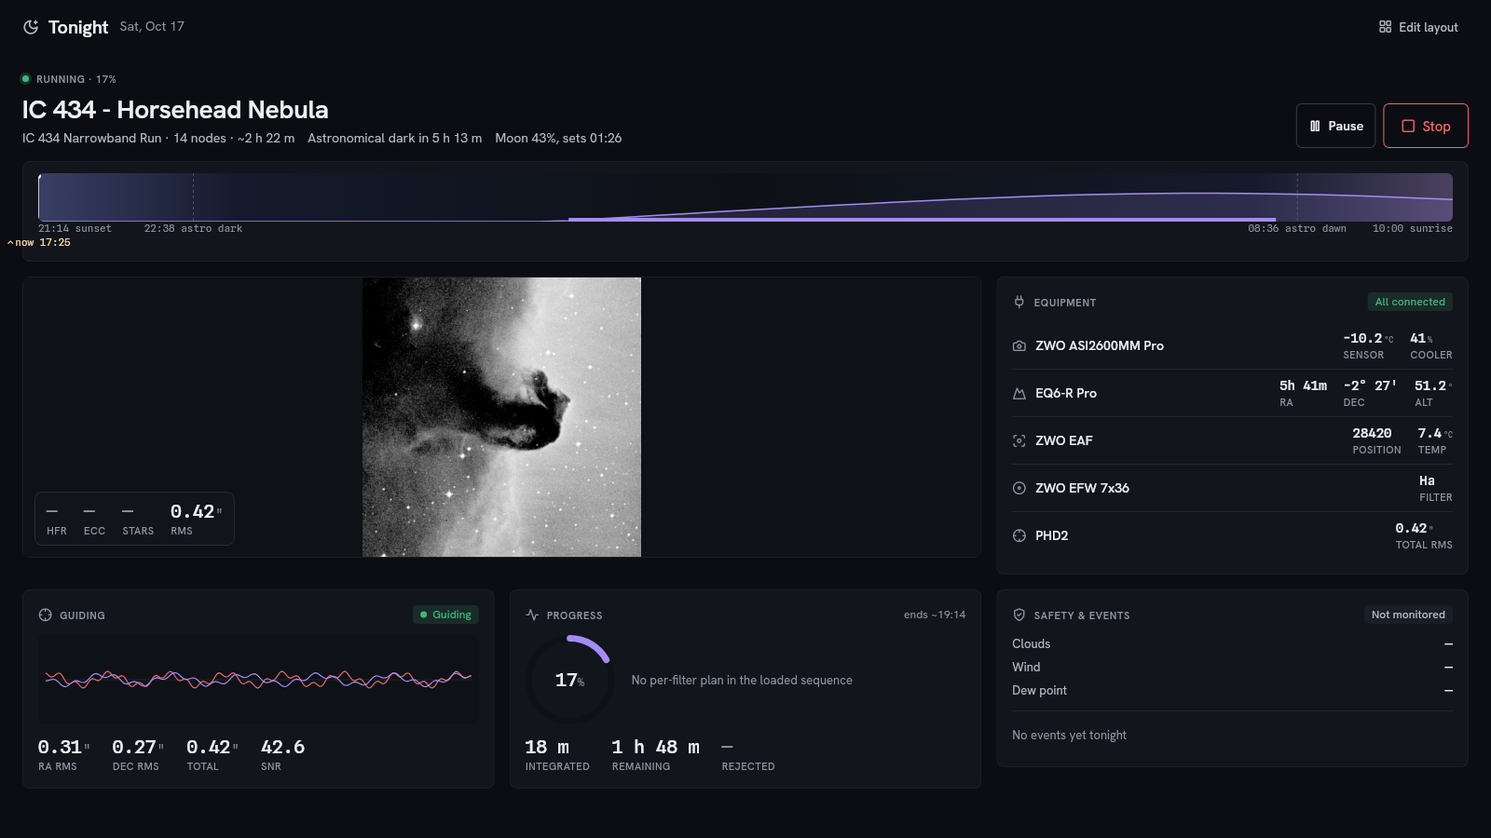
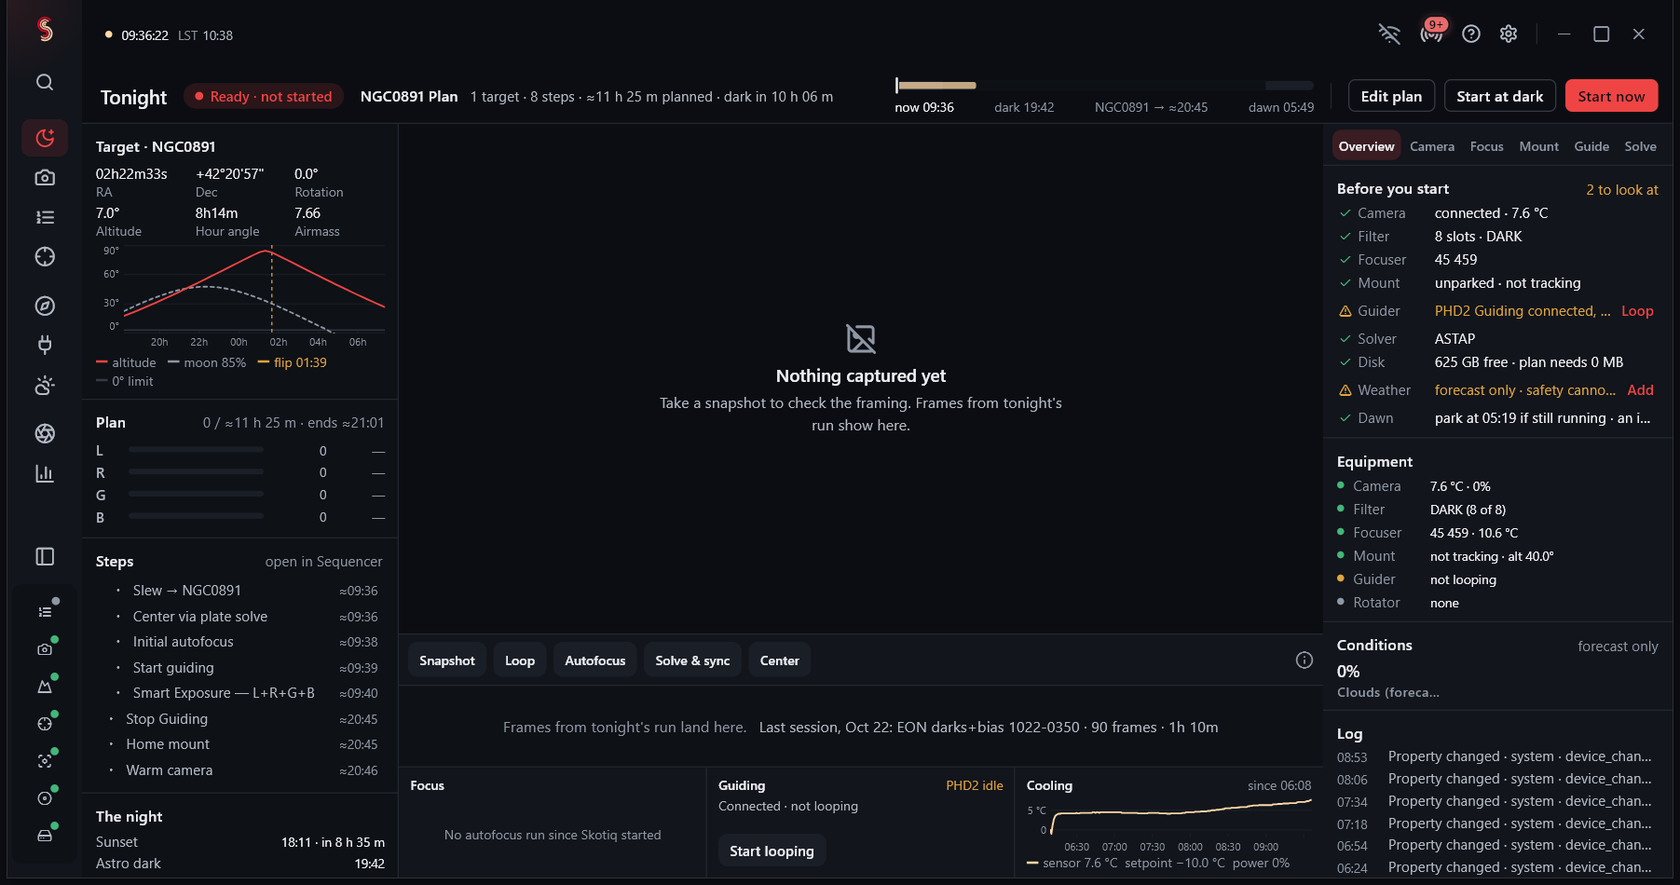
docs(readme): refresh screenshots from the live imaging rig; fix repo links
Replace the README screenshot set with captures taken 2026-10-22 from the
owner's running skotiq.exe on the imaging laptop (Tonight staged for
NGC 891, connected ZWO/Pegasus/PHD2 rig, real session history, the NGC 891
L master in the Darkroom). Alt text and captions now describe the actual
pixels. Add darkroom-draft.png and session-history.png.

Fix all github.com/Scdouglas1999/Skotiq links — that repo name returns
404; the repository is still Scdouglas1999/Nightshade, which will redirect
if the rename happens later. Downloads table now uses <version>
placeholders and notes that the published 7.1.0 assets are still named
nightshade-7.1.0-*.

Generated with [Devin](https://devin.ai)

diff --git a/README.md b/README.md
@@ -10,15 +10,15 @@
 
 **Astrophotography capture software that runs the whole night from one app.**
 
-[![Latest release](https://img.shields.io/github/v/release/Scdouglas1999/Skotiq?label=latest&color=2ea44f)](https://github.com/Scdouglas1999/Skotiq/releases/latest)
+[![Latest release](https://img.shields.io/github/v/release/Scdouglas1999/Nightshade?label=latest&color=2ea44f)](https://github.com/Scdouglas1999/Nightshade/releases/latest)
 [![Public beta](https://img.shields.io/badge/status-public_beta-f59e0b)](#whats-missing)
 [![Desktop](https://img.shields.io/badge/desktop-Windows_%7C_Linux-2563eb)](#downloads)
 [![Companion](https://img.shields.io/badge/companion-Android-7c3aed)](#running-it-from-somewhere-else)
 [![License](https://img.shields.io/badge/license-source_available-64748b)](LICENSE)
 
-[**Download**](https://github.com/Scdouglas1999/Skotiq/releases/latest) · [Documentation](docs/index.md) · [7.1.0 release notes](docs/release/v7.1.0.md) · [What's missing](docs/known-limitations.md) · [Patreon](https://www.patreon.com/cw/SeanDouglas)
+[**Download**](https://github.com/Scdouglas1999/Nightshade/releases/latest) · [Documentation](docs/index.md) · [7.1.0 release notes](docs/release/v7.1.0.md) · [What's missing](docs/known-limitations.md) · [Patreon](https://www.patreon.com/cw/SeanDouglas)
 
-<img src="assets/screenshots/planetarium.png" width="900" alt="Skotiq planetarium drawing the sky over the observing site: constellation figures and named stars, Messier and NGC objects labelled, Mars and Jupiter placed, with a compass rose and the field of view, centre coordinates and Bortle class along the bottom">
+<img src="assets/screenshots/planetarium.png" width="900" alt="Skotiq planetarium drawing the live sky over the observing site: constellation figures, named deep-sky objects and planets, with a compass rose and the field center coordinates and Bortle class along the bottom">
 
 </div>
 
@@ -50,22 +50,22 @@ or the [N.I.N.A. Fujifilm plugin](https://github.com/Scdouglas1999/NINA-Fujifilm
 
 <div align="center">
 
-<img src="assets/screenshots/desktop-dashboard.png" width="900" alt="Skotiq Tonight during a run on IC 434: the latest captured frame, the guide trace, per-filter progress against the night's goal, and live camera, mount, focuser, filter wheel and guider readouts">
+<img src="assets/screenshots/desktop-dashboard.png" width="900" alt="Skotiq Tonight on a real imaging laptop, with the NGC 891 plan staged for the night: the target's altitude curve against the Moon at 85%, each step's clock time through the meridian flip and camera warm-up, and a before-you-start checklist showing the camera cooling, mount unparked and guider connected">
 
-<sub>The target you're on, the frame that just came down, the guide trace, and every device on the rig — one screen.</sub>
+<sub>The target, the plan with its clock times, the gear's live state and the night's weather call — one screen. (Captured from a real rig the morning after a night's imaging.)</sub>
 
 </div>
 
 <table>
 <tr>
 <td width="50%" valign="top">
-<img src="assets/screenshots/plan-tonight.png" width="100%" alt="Skotiq Plan scoring 1255 catalogue targets for tonight: each with its transit time and altitude and how long it stays above 30 degrees, beside a detail pane giving NGC7788's altitude curve, object type, magnitude, suggested filter and exposure">
+<img src="assets/screenshots/plan-tonight.png" width="100%" alt="Skotiq Plan scoring 1446 catalogue targets for tonight, each with its transit time, altitude and time above the horizon, beside a detail pane giving IC 356's altitude curve, object type, magnitude, suggested filter and its distance from the Moon">
 <p><b>Work out what to shoot.</b> Everything in the catalogue, scored for tonight against
 how high it gets, when it transits, how long it stays up, where the Moon is and what your
 horizon blocks. Click one and you get its altitude curve and a suggested exposure.</p>
 </td>
 <td width="50%" valign="top">
-<img src="assets/screenshots/framing.png" width="100%" alt="Skotiq framing: the camera's field of view and rotation over DSS2 Red survey imagery, with the sensor size, field of view and image scale for the active equipment profile">
+<img src="assets/screenshots/framing.png" width="100%" alt="Skotiq framing for NGC 891: the camera's 1.00 by 0.75 degree field of view drawn over real DSS2 Red survey imagery of the galaxy, with the sensor size and image scale from the active equipment profile">
 <p><b>Frame it before you waste the clear sky.</b> Your actual sensor and focal length over
 real survey imagery, so you can see whether it fits and which way to rotate. Mosaic panels
 get laid out here too.</p>
@@ -73,12 +73,12 @@ get laid out here too.</p>
 </tr>
 <tr>
 <td valign="top">
-<img src="assets/screenshots/equipment.png" width="100%" alt="Skotiq equipment profiles: the active rig's optical train and device assignments, with focal length, aperture and focal ratio">
+<img src="assets/screenshots/equipment.png" width="100%" alt="Skotiq equipment screen on a live rig: a ZWO ASI1600MM-Cool camera cooled to 7.1°C, a Pegasus NYX-101 mount, a ZWO EAF focuser at position 45459, an eight-slot filter wheel on DARK and PHD2 guiding all connected at once, with the startup auto-connect log reporting five of five devices succeeded">
 <p><b>Connect once.</b> Save the rig as a profile — camera, mount, focuser, filter wheel,
 guider and the optics in front of them — and it brings the lot back next time.</p>
 </td>
 <td valign="top">
-<img src="assets/screenshots/sequencer.png" width="100%" alt="Skotiq sequencer part-way through a run: the IC 434 narrowband sequence as a table of steps with filter, count, duration and finish-time columns, the step currently exposing highlighted, and its settings alongside">
+<img src="assets/screenshots/sequencer.png" width="100%" alt="Skotiq sequencer with the real NGC 891 plan loaded: acquire target, a smart-exposure loop through L R G and B filters, a meridian flip with watchdog, and the dawn teardown steps, as a table with counts and clock times">
 <p><b>Build the run.</b> Steps you drag together: cool the camera, autofocus, loop through
 filters, dither, flip, park. A twelve-hour run reads as a table with counts and finish
 times rather than a tree you scroll through.</p>
@@ -86,33 +86,39 @@ times rather than a tree you scroll through.</p>
 </tr>
 <tr>
 <td valign="top">
-<img src="assets/screenshots/imaging.png" width="100%" alt="Skotiq imaging: a captured frame of IC 434 in the viewer with HFR, eccentricity, star count and image statistics measured from it, beside the capture settings and session totals">
+<img src="assets/screenshots/imaging.png" width="100%" alt="Skotiq imaging on the live rig between sessions: FITS 16-bit capture settings, free disk space and the cooled camera readout, with the frame viewer and session panel waiting for the next run">
 <p><b>Watch the frames come in.</b> Star count, HFR and eccentricity measured off each frame
 as it lands, so you find out focus has drifted before you've lost an hour to it.</p>
 </td>
 <td valign="top">
-<img src="assets/screenshots/guiding.png" width="100%" alt="Skotiq guiding: the RA and Dec error trace over five minutes with RMS and star statistics, PHD2 connected and the mount calibrated">
+<img src="assets/screenshots/guiding.png" width="100%" alt="Skotiq guiding with PHD2 connected to the live rig: the guide trace, RMS and star statistics, and the dither and calibration controls alongside">
 <p><b>Guide without alt-tabbing.</b> Drive PHD2 from here, or use the built-in multi-star
 guider. Capture waits for the dither to settle either way.</p>
 </td>
 </tr>
 <tr>
 <td valign="top">
-<img src="assets/screenshots/weather.png" width="100%" alt="Skotiq Weather showing live GOES satellite cloud imagery over the observing site, the site marked with its 30 km alert radius, and a critical verdict reading 100 percent cloud cover overhead">
+<img src="assets/screenshots/weather.png" width="100%" alt="Skotiq Weather showing live GOES satellite cloud imagery over the observing site with the alert radius marked, reporting zero percent cloud cover overhead and a clear verdict">
 <p><b>See the clouds coming.</b> Live satellite imagery over your site, with an alert radius
 you set. Weather, your safety monitor, twilight and free disk space all feed one answer
 about whether it's safe to carry on.</p>
 </td>
 <td valign="top">
-<img src="assets/screenshots/flat-wizard.png" width="100%" alt="Skotiq flat wizard converging on a flat exposure from measured ADU samples">
+<img src="assets/screenshots/flat-wizard.png" width="100%" alt="Skotiq flat wizard part-way through a real flat run on the Ha filter: a test exposure converging toward the 32768 ADU histogram target on the chart, with per-filter calibration status cards beside it">
 <p><b>Take flats without guessing.</b> The wizard measures the level and works out the
 exposure. If it can't land inside your tolerance it tells you, instead of handing you a bad
 flat.</p>
 </td>
 </tr>
 <tr>
-<td colspan="2" valign="top">
-<img src="assets/screenshots/analytics.png" width="100%" alt="Skotiq analytics history: past imaging sessions listed with elapsed time, frames returned, integration and average HFR">
+<td valign="top">
+<img src="assets/screenshots/darkroom-draft.png" width="100%" alt="Skotiq darkroom showing a real L-filter master of NGC 891 from the previous night's run, edge-on galaxy visible, with the processing recipe listing background extraction and denoise stages beside it">
+<p><b>Process what you shot.</b> The Darkroom stacks each filter's frames into masters and
+drafts the color composite for you at dawn — the L master of NGC 891 above came out of the
+night pictured throughout this page.</p>
+</td>
+<td valign="top">
+<img src="assets/screenshots/analytics.png" width="100%" alt="Skotiq analytics history on the live rig: the October 21 and 22 NGC 891 sessions listed with elapsed time, frames returned, integration and median HFR, beside a completed ninety-frame darks and bias run">
 <p><b>Look back at it.</b> Every session with its frame count, integration time and average
 HFR, the guiding history, and what the automation decided and why. Frames get labelled,
 never deleted or thrown out for you.</p>
@@ -219,9 +225,14 @@ profile.
 
 | File | Platform | Notes |
 |---|---|---|
-| `skotiq-7.1.0-windows-x64.zip` | Windows x64 | Portable — extract and run. Only code-signed once a certificate has been set up |
-| `skotiq-7.1.0-linux-x64.tar.gz` | Linux x64 | Portable bundle, needs glibc 2.35 or newer. Early days |
-| `skotiq-7.1.0-android-arm64-v8a.apk` | Android | The companion app. Also built for `armeabi-v7a` and `x86_64` |
+| `skotiq-<version>-windows-x64.zip` | Windows x64 | Portable — extract and run. Only code-signed once a certificate has been set up |
+| `skotiq-<version>-linux-x64.tar.gz` | Linux x64 | Portable bundle, needs glibc 2.35 or newer. Early days |
+| `skotiq-<version>-android-arm64-v8a.apk` | Android | The companion app. Also built for `armeabi-v7a` and `x86_64` |
+
+The last published release, 7.1.0, still ships its files under the old
+`nightshade-7.1.0-*` names — the `skotiq-*` names start with the first release
+cut after the rename. The Android file is a fresh install (`com.skotiq.mobile`),
+not an upgrade of the old app.
 
 **There's no macOS or iOS build.** The Mac version compiles, but nothing is packaged and
 neither has ever been run against hardware. Treat them as source only.
@@ -250,9 +261,11 @@ membership. Allow about 500 MB for the app, plus room for your catalogues and fr
 > copy by hand.
 
 1. Download the file for your platform from
-   [Releases](https://github.com/Scdouglas1999/Skotiq/releases/latest), and check the
+   [Releases](https://github.com/Scdouglas1999/Nightshade/releases/latest), and check the
    `.sha256` if you want to be careful.
 2. Extract the whole thing somewhere you can write to. Don't run it from inside the zip.
+   (Release 7.1.0's archives still contain `nightshade.exe` / `./nightshade` —
+   start whatever executable is in there.)
 3. Start it — `skotiq.exe` on Windows, `./skotiq` on Linux. Windows may warn
    about an unsigned program; check the hash first if that bothers you.
 4. **Download the sky catalogues on first run.** They aren't bundled, because they're large.
@@ -357,6 +370,6 @@ it or building something on top of it.
 
 <div align="center">
 
-[Download](https://github.com/Scdouglas1999/Skotiq/releases/latest) · [Docs](docs/index.md) · [Issues](https://github.com/Scdouglas1999/Skotiq/issues) · [Patreon](https://www.patreon.com/cw/SeanDouglas)
+[Download](https://github.com/Scdouglas1999/Nightshade/releases/latest) · [Docs](docs/index.md) · [Issues](https://github.com/Scdouglas1999/Nightshade/issues) · [Patreon](https://www.patreon.com/cw/SeanDouglas)
 
 </div>

diff --git a/docs/known-limitations.md b/docs/known-limitations.md
@@ -89,7 +89,7 @@ These are the accepted limitations for the 5.0.0 release candidate.
 | Hardware/platform | ASCOM COM is Windows-only. | Linux and macOS users cannot use local ASCOM COM drivers directly. | Use ASCOM Alpaca/ASCOM Remote, INDI, or another supported backend. | No. | Track in `docs/production-readiness/feature-parity-matrix.md` and platform-capability verification. |
 | Hardware/platform | Native DSLR control for Canon/Nikon is not a public-release guarantee. | DSLR users may need an external driver/backend. | Use supported ASCOM, INDI, or Alpaca workflows where available. | No, if docs and release notes do not advertise native DSLR support. | Track in `docs/supported-hardware-by-platform.md` and release notes scope review. |
 | Hardware/platform | INDI weather and switch parity is not fully verified for release-critical safety. | Linux/macOS observatory safety may require another backend. | Use a verified Alpaca or ASCOM safety/weather path for unattended operation. | Yes for unattended safety claims unless verified. | Track in hardware smoke evidence and `docs/production-readiness/feature-parity-matrix.md`. |
-| Remote/headless | Fully-unattended **headless** acquisition on real ASCOM hardware is still being hardened: headless COM-session issues affect mount connect, filter-wheel set, mid-session camera stability, and the sequence start-gate (B1–B6, B18, B19). | Unattended *headless* nights on a Windows ASCOM rig may stall or mis-capture; the desktop GUI path performs the same operations correctly. | Use the desktop app for unattended runs, or supervise headless nights. Remote monitoring and planning over the LAN are reliable. | Yes for an *unattended-headless* acquisition claim; No for monitoring/planning and the desktop scope. | Tracked in `docs/release-evidence/5.0.0.md` and GitHub issues [#1–#6](https://github.com/Scdouglas1999/Skotiq/issues?q=label%3Abeta-gap). |
+| Remote/headless | Fully-unattended **headless** acquisition on real ASCOM hardware is still being hardened: headless COM-session issues affect mount connect, filter-wheel set, mid-session camera stability, and the sequence start-gate (B1–B6, B18, B19). | Unattended *headless* nights on a Windows ASCOM rig may stall or mis-capture; the desktop GUI path performs the same operations correctly. | Use the desktop app for unattended runs, or supervise headless nights. Remote monitoring and planning over the LAN are reliable. | Yes for an *unattended-headless* acquisition claim; No for monitoring/planning and the desktop scope. | Tracked in `docs/release-evidence/5.0.0.md` and GitHub issues [#1–#6](https://github.com/Scdouglas1999/Nightshade/issues?q=label%3Abeta-gap). |
 | Remote/headless | Scoped tokens are coarse-grained (`view`, `control`, `admin`) rather than custom per-route roles. | Operators cannot yet define custom roles for a specific device or workflow. | Issue separate view/control/admin tokens and keep admin tokens limited to trusted operators. | No, if coarse scopes meet the release security model. | Track in Remote Access and Security sections of `docs/production-readiness/public-release-master-checklist.md`. |
 | Living Sky | Constellation is self-hosted; Skotiq operates no public/default hub in 5.0. | Users cannot join a global swarm without choosing an operator they trust. | Run `server/skotiq_hub` or use a trusted club/operator hub and enter its URL. | No; this is the explicit 5.0 deployment model. | Hub README and dedicated CI job. |
 | Living Sky | New Living Sky native processing and automation paths have automated coverage but no final physical-rig/on-sky soak. | Timing, device, or data-quality behavior may differ on a real rig. | Run a supervised complete night before relying on it unattended. | Yes for unattended claims; no for supervised beta scope. | 5.0 release evidence and hardware campaign. |

diff --git a/docs/release-evidence/4.1.0.md b/docs/release-evidence/4.1.0.md
@@ -77,12 +77,12 @@ path works.
 | B1 | ASCOM connect pops a modal driver dialog that blocks headless connect | Not fixed — vendor-driver-specific, needs the rig |
 | B19 | A loaded sequence self-cancels ~1.5 s after start | Fix implemented (edge-triggered `MountTrackingLost`), unit-tested, runtime-pending on rig |
 
-Tracked as GitHub issues: [#1 (B2)](https://github.com/Scdouglas1999/Skotiq/issues/1),
-[#2 (B5)](https://github.com/Scdouglas1999/Skotiq/issues/2),
-[#3 (B18)](https://github.com/Scdouglas1999/Skotiq/issues/3),
-[#4 (B19)](https://github.com/Scdouglas1999/Skotiq/issues/4),
-[#5 (B1)](https://github.com/Scdouglas1999/Skotiq/issues/5), and the umbrella
-[#6 — unattended headless night not yet validated](https://github.com/Scdouglas1999/Skotiq/issues/6).
+Tracked as GitHub issues: [#1 (B2)](https://github.com/Scdouglas1999/Nightshade/issues/1),
+[#2 (B5)](https://github.com/Scdouglas1999/Nightshade/issues/2),
+[#3 (B18)](https://github.com/Scdouglas1999/Nightshade/issues/3),
+[#4 (B19)](https://github.com/Scdouglas1999/Nightshade/issues/4),
+[#5 (B1)](https://github.com/Scdouglas1999/Nightshade/issues/5), and the umbrella
+[#6 — unattended headless night not yet validated](https://github.com/Scdouglas1999/Nightshade/issues/6).
 
 ## Unit tested
 

diff --git a/.github/SUPPORT.md b/.github/SUPPORT.md
@@ -10,10 +10,10 @@
 
 | Need | Where |
 |------|--------|
-| Bug or regression | [Open a bug report](https://github.com/Scdouglas1999/Skotiq/issues/new?template=bug_report.yml) |
-| Feature idea | [Open a feature request](https://github.com/Scdouglas1999/Skotiq/issues/new?template=feature_request.yml) |
+| Bug or regression | [Open a bug report](https://github.com/Scdouglas1999/Nightshade/issues/new?template=bug_report.yml) |
+| Feature idea | [Open a feature request](https://github.com/Scdouglas1999/Nightshade/issues/new?template=feature_request.yml) |
 | Security concern | [SECURITY.md](SECURITY.md) — private report only |
-| Releases & upgrades | [GitHub Releases](https://github.com/Scdouglas1999/Skotiq/releases) and [CHANGELOG.md](../docs/CHANGELOG.md) |
+| Releases & upgrades | [GitHub Releases](https://github.com/Scdouglas1999/Nightshade/releases) and [CHANGELOG.md](../docs/CHANGELOG.md) |
 
 Include **Skotiq version**, **OS**, **driver backend** (ASCOM / Alpaca / INDI / native), and **equipment models** when reporting hardware issues.
 

diff --git a/docs/releases/v2.6.0-release-notes.md b/docs/releases/v2.6.0-release-notes.md
@@ -4,7 +4,7 @@
 **Branch:** `release/v2.5.0-hardening`
 **Compared to:** v2.5.0 tag (2026-02-06, "Stub Cleanup & New Icon")
 **Commit count:** 210 on the audit branch + a 914-file / +269,063 LOC squashed "pre-hardening" baseline from the 3-month dev window between Feb and May
-**Full changelog:** [v2.5.0...v2.6.0](https://github.com/Scdouglas1999/Skotiq/compare/v2.5.0...v2.6.0)
+**Full changelog:** [v2.5.0...v2.6.0](https://github.com/Scdouglas1999/Nightshade/compare/v2.5.0...v2.6.0)
 **Net file delta:** ~491 new source files, ~318,000 net lines changed
 **Companion document:** `CHANGELOG.md` (in the repo root) carries the engineering-grade detail with `§N.M` cross-references back to the audit doc
 
@@ -927,7 +927,7 @@ Roughly 30 new scripts under `tools/production/` and `tools/compat/` plus their 
 
 ## Full changelog
 
-[`v2.5.0...v2.6.0`](https://github.com/Scdouglas1999/Skotiq/compare/v2.5.0...v2.6.0)
+[`v2.5.0...v2.6.0`](https://github.com/Scdouglas1999/Nightshade/compare/v2.5.0...v2.6.0)
 
 ---
 

diff --git a/docs/getting-started/installation.md b/docs/getting-started/installation.md
@@ -15,7 +15,7 @@ artifact is not promoted without passing its recorded `runtimeSmokeChecks`.
 ## Downloads
 
 Open the [Skotiq releases
-page](https://github.com/Scdouglas1999/Skotiq/releases) and download the
+page](https://github.com/Scdouglas1999/Nightshade/releases) and download the
 artifact for your platform:
 
 | Platform | 5.0.0 artifact | Distribution status |
@@ -179,4 +179,4 @@ v55 on a copied database. Your own backup remains the rollback path.
 Continue with [Connecting Your First Device](first-connection.md) and
 [Capturing Your First Image](first-image.md). For help, use the
 [troubleshooting guide](../troubleshooting/common-issues.md) or
-[GitHub Issues](https://github.com/Scdouglas1999/Skotiq/issues).
+[GitHub Issues](https://github.com/Scdouglas1999/Nightshade/issues).

diff --git a/docs/troubleshooting/common-issues.md b/docs/troubleshooting/common-issues.md
@@ -739,7 +739,7 @@ When asking for help, provide:
 
 **Official Support**
 - Documentation: This documentation
-- GitHub Issues: https://github.com/Scdouglas1999/Skotiq/issues
+- GitHub Issues: https://github.com/Scdouglas1999/Nightshade/issues
 
 **Community Help**
 - Cloudy Nights forum
@@ -779,7 +779,7 @@ When asking for help, provide:
 
 If you've tried these solutions and still experiencing problems:
 
-1. Post detailed issue on [GitHub Issues](https://github.com/Scdouglas1999/Skotiq/issues) with logs
+1. Post detailed issue on [GitHub Issues](https://github.com/Scdouglas1999/Nightshade/issues) with logs
 2. Include Skotiq version, OS, equipment, and steps to reproduce
 
 Use the exact error text and evidence above so support can distinguish a bug

diff --git a/docs/RUNBOOK.md b/docs/RUNBOOK.md
@@ -146,7 +146,7 @@ present beside the executable; reinstall if missing.
 
 **Escalation**
 
-File an issue at https://github.com/Scdouglas1999/Skotiq/issues with:
+File an issue at https://github.com/Scdouglas1999/Nightshade/issues with:
 
 1. Full log file (`$env:APPDATA\Skotiq\logs\skotiq.log`).
 2. Last successful launch date.
@@ -764,7 +764,7 @@ curl -s http://127.0.0.1:8080/api/info > "$out/api-info.json"
 tar czf "$out.tar.gz" -C "$out" .
 ```
 
-Open https://github.com/Scdouglas1999/Skotiq/issues and attach the
+Open https://github.com/Scdouglas1999/Nightshade/issues and attach the
 archive.
 
 ## Appendix B — See also

diff --git a/.github/SECURITY.md b/.github/SECURITY.md
@@ -2,7 +2,7 @@
 
 ## Supported versions
 
-Security fixes are applied to the current **beta** and **stable** release channels published on [GitHub Releases](https://github.com/Scdouglas1999/Skotiq/releases). Older versions may not receive patches.
+Security fixes are applied to the current **beta** and **stable** release channels published on [GitHub Releases](https://github.com/Scdouglas1999/Nightshade/releases). Older versions may not receive patches.
 
 | Channel | Typical support |
 |--------|------------------|

diff --git a/docs/getting-started/first-image.md b/docs/getting-started/first-image.md
@@ -352,6 +352,6 @@ Now that you've captured your first images:
 Questions about imaging?
 - [Imaging Features Guide](../features/imaging.md) - Detailed feature documentation
 - [Troubleshooting Guide](../troubleshooting/common-issues.md) - Common problems and solutions
-- [GitHub Issues](https://github.com/Scdouglas1999/Skotiq/issues) - Report bugs or ask for help
+- [GitHub Issues](https://github.com/Scdouglas1999/Nightshade/issues) - Report bugs or ask for help
 
 Clear skies and happy imaging!

diff --git a/docs/release/v6.0.0.md b/docs/release/v6.0.0.md
@@ -1,6 +1,6 @@
 # Skotiq 6.0.0 — Make It Real / Collaborative Sky
 
-Previous release: [v5.0.0 Living Sky](https://github.com/Scdouglas1999/Skotiq/releases/tag/v5.0.0) (2026-06-29). Packaged as 6.0.0+24. Operator overview: `docs/releases/v6.0.0-README.md`.
+Previous release: [v5.0.0 Living Sky](https://github.com/Scdouglas1999/Nightshade/releases/tag/v5.0.0) (2026-06-29). Packaged as 6.0.0+24. Operator overview: `docs/releases/v6.0.0-README.md`.
 
 ## Summary
 

diff --git a/docs/getting-started/first-connection.md b/docs/getting-started/first-connection.md
@@ -302,4 +302,4 @@ If you're having trouble connecting devices:
 - Check [Firewall Troubleshooting](../troubleshooting/firewall.md) for network
   devices or remote access
 - Review your device's ASCOM/INDI driver documentation
-- Report issues on [GitHub](https://github.com/Scdouglas1999/Skotiq/issues) with specific error messages
+- Report issues on [GitHub](https://github.com/Scdouglas1999/Nightshade/issues) with specific error messages
